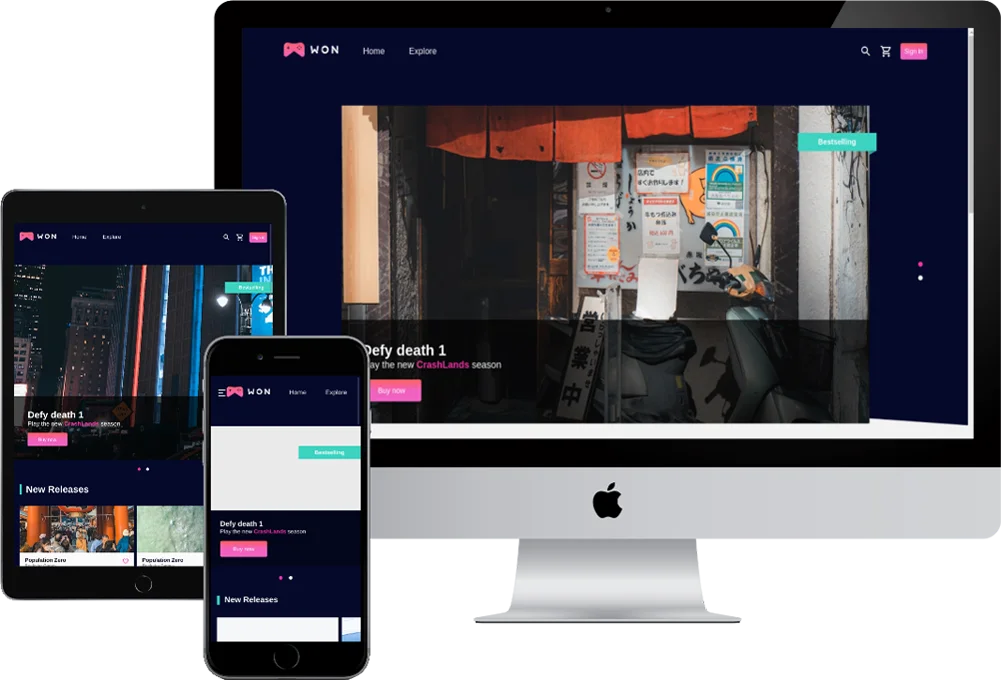
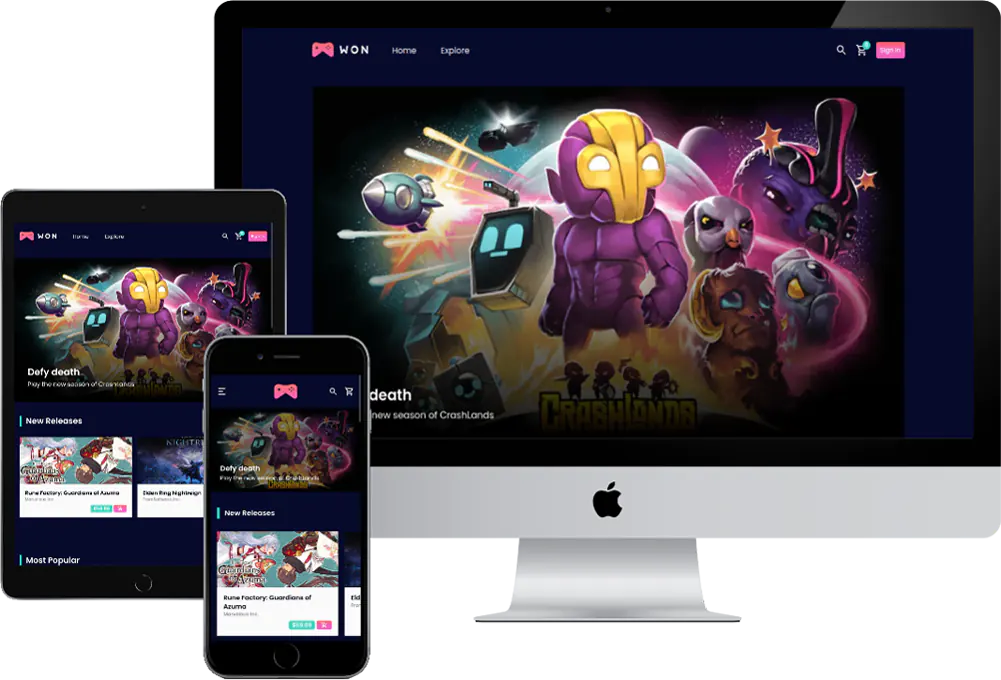
feat(content): add project url and update image of won games

diff --git a/src/content/projects.tsx b/src/content/projects.tsx
@@ -5,11 +5,11 @@ export const projects: Omit<ProjectProps, 'index'>[] = [
     id: '13',
     title: 'Won Games',
     year: '2025',
-    description: `E-commerce de jogos. Em desenvolvimento.`,
+    description: `E-commerce de jogos completo.`,
     skills: [
       'Next.js',
       'TypeScript',
-      'StyledComponents',
+      'Tailwind',
       'Storybook',
       'TestingLibrary',
       'Strapi',
@@ -17,6 +17,7 @@ export const projects: Omit<ProjectProps, 'index'>[] = [
       'Cypress',
       'NextAuth'
     ],
+    projectUrl: 'https://wongames-store.vercel.app',
     repositoryUrl: 'https://github.com/AleferReinert/won-games',
     storybookUrl: 'https://main--64ceaf6be6c94aa14b9fe174.chromatic.com',
     img: '/projects/min/won-games.webp'
